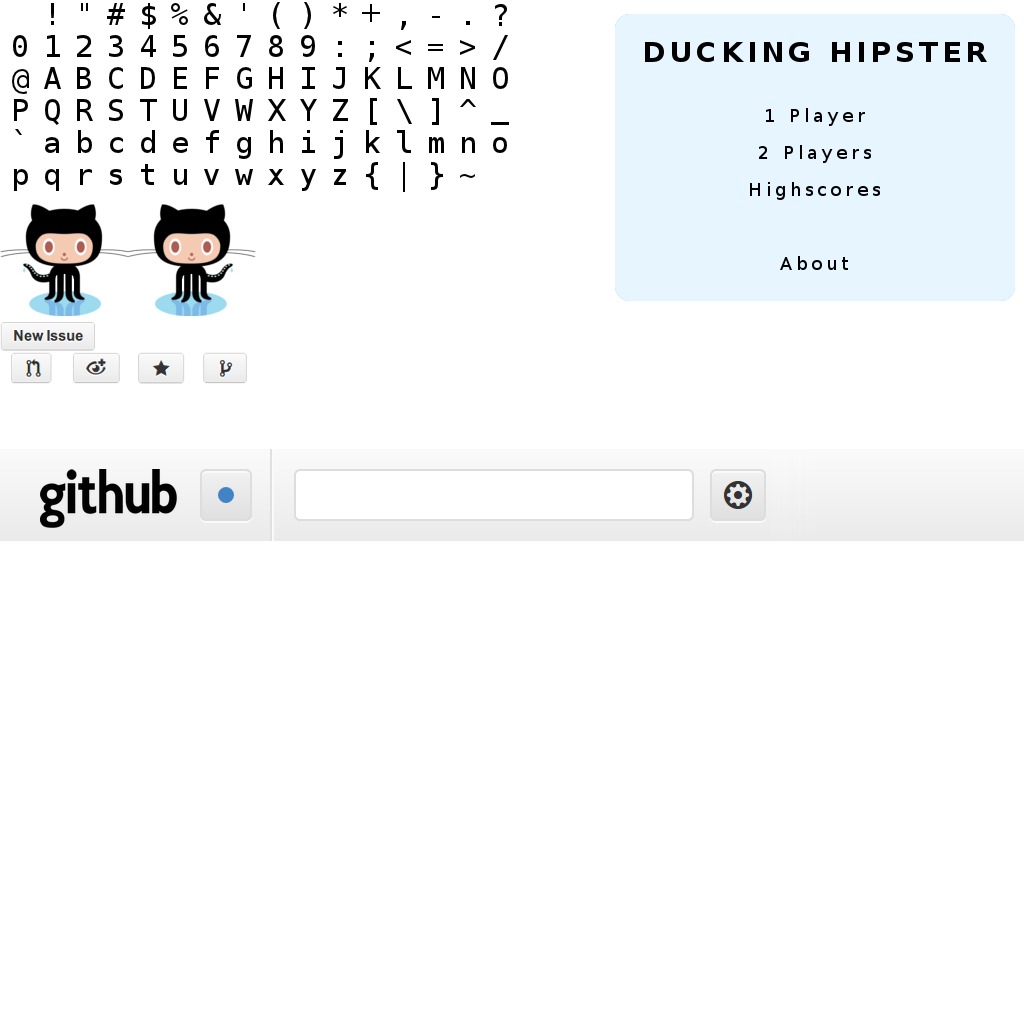
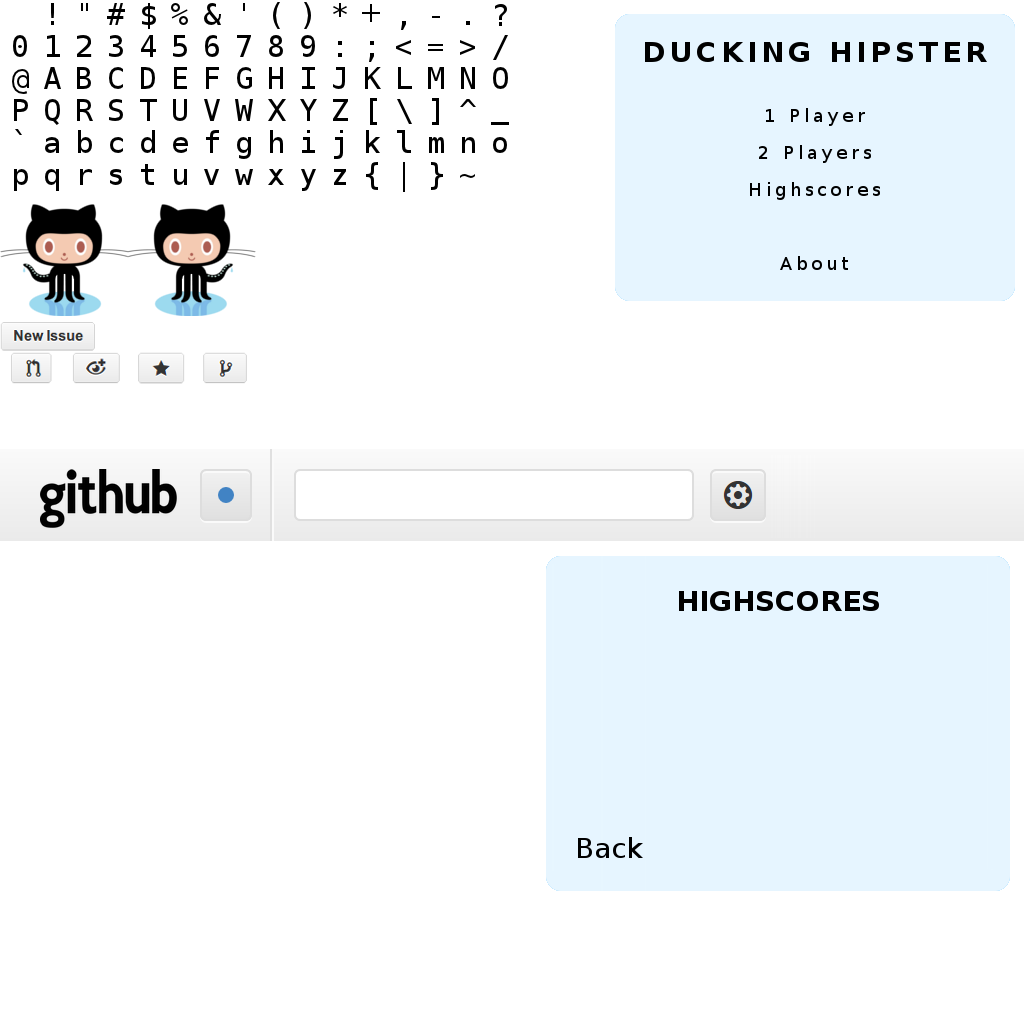
Highscores list view

Changed region(s): [[0.5312, 0.5312, 1.0, 0.875]]

diff --git a/js/game.js b/js/game.js
@@ -5,7 +5,8 @@ var game = {
 		PLAY : 0,
 		PAUSE : 1,
 		DEATH : 2,
-		MENU : 3
+		MENU : 3,
+		HIGHSCORES_LIST: 4
 	},
 	menuState :{
 	    SINGLEPLAYER : 0,
@@ -16,6 +17,7 @@ var game = {
 	currentMenu : 0,
 	init : function(){
 		this.bg = Background();
+		this.highscores = Highscores();
 		this.player = Player();
 		this.player.position[0] = 0;
 		
@@ -117,8 +119,19 @@ var game = {
 	keyup : function(event){
 		switch (event.keyCode) {
 		case KeyEvent.VK_RETURN:
-		    if(game.currentState == game.state.MENU)
-		        game.currentState = game.state.PLAY;
+		    if(game.currentState == game.state.MENU){
+		        if(game.currentMenu == game.menuState.ABOUT)
+		            window.location = "https://github.com/Psywerx/game-off-2012";
+		        else if(game.currentMenu == game.menuState.HIGHSCORES){
+		            game.currentState = game.state.HIGHSCORES_LIST;
+		        }
+		        else
+		            game.currentState = game.state.PLAY;
+		        
+		    }
+		    else if(game.currentState == game.state.HIGHSCORES_LIST){
+		        game.currentState = game.state.MENU;
+		    }
 		    break;
 		case KeyEvent.VK_DOWN:
             game.menuDirection[0] = 0;
@@ -281,6 +294,9 @@ var game = {
             break;
         case(game.state.PAUSE):
             this.pause.draw(gl);
+            break;
+        case(game.state.HIGHSCORES_LIST):
+            this.highscores.draw(gl);
             break;
         case(game.state.MENU):
             this.menu.draw(gl);

diff --git a/js/drawables.js b/js/drawables.js
@@ -1,3 +1,31 @@
+Highscores = function(){
+    var bg = new Square();
+    bg.texture.enabled = true;
+    bg.texture.fromChar("0");
+    bg.color = [0,0,0,1];
+    bg.size  = [0.9,0.9/1.3,0];
+    bg.position = [0,-0.1,-0.5];
+    bg.texture.sprite = [17,17];
+    bg.texture.size = [15,12];
+    
+    var selector = new Square();
+    selector.texture.enabled = false;
+    selector.color = [0.9,0.9,0.9,0.5];
+    selector.size = [0.2,0.07, 0];
+    selector.position = [0.65, -0.5, -0.51];
+    
+    return{
+        tick : function(theta){
+            
+        },
+        draw : function(gl){
+            bg.draw(gl);
+            selector.draw(gl);
+        }
+    };
+    
+};
+
 Menu = function(){
     var s = new Square();
     s.texture.enabled = true;
